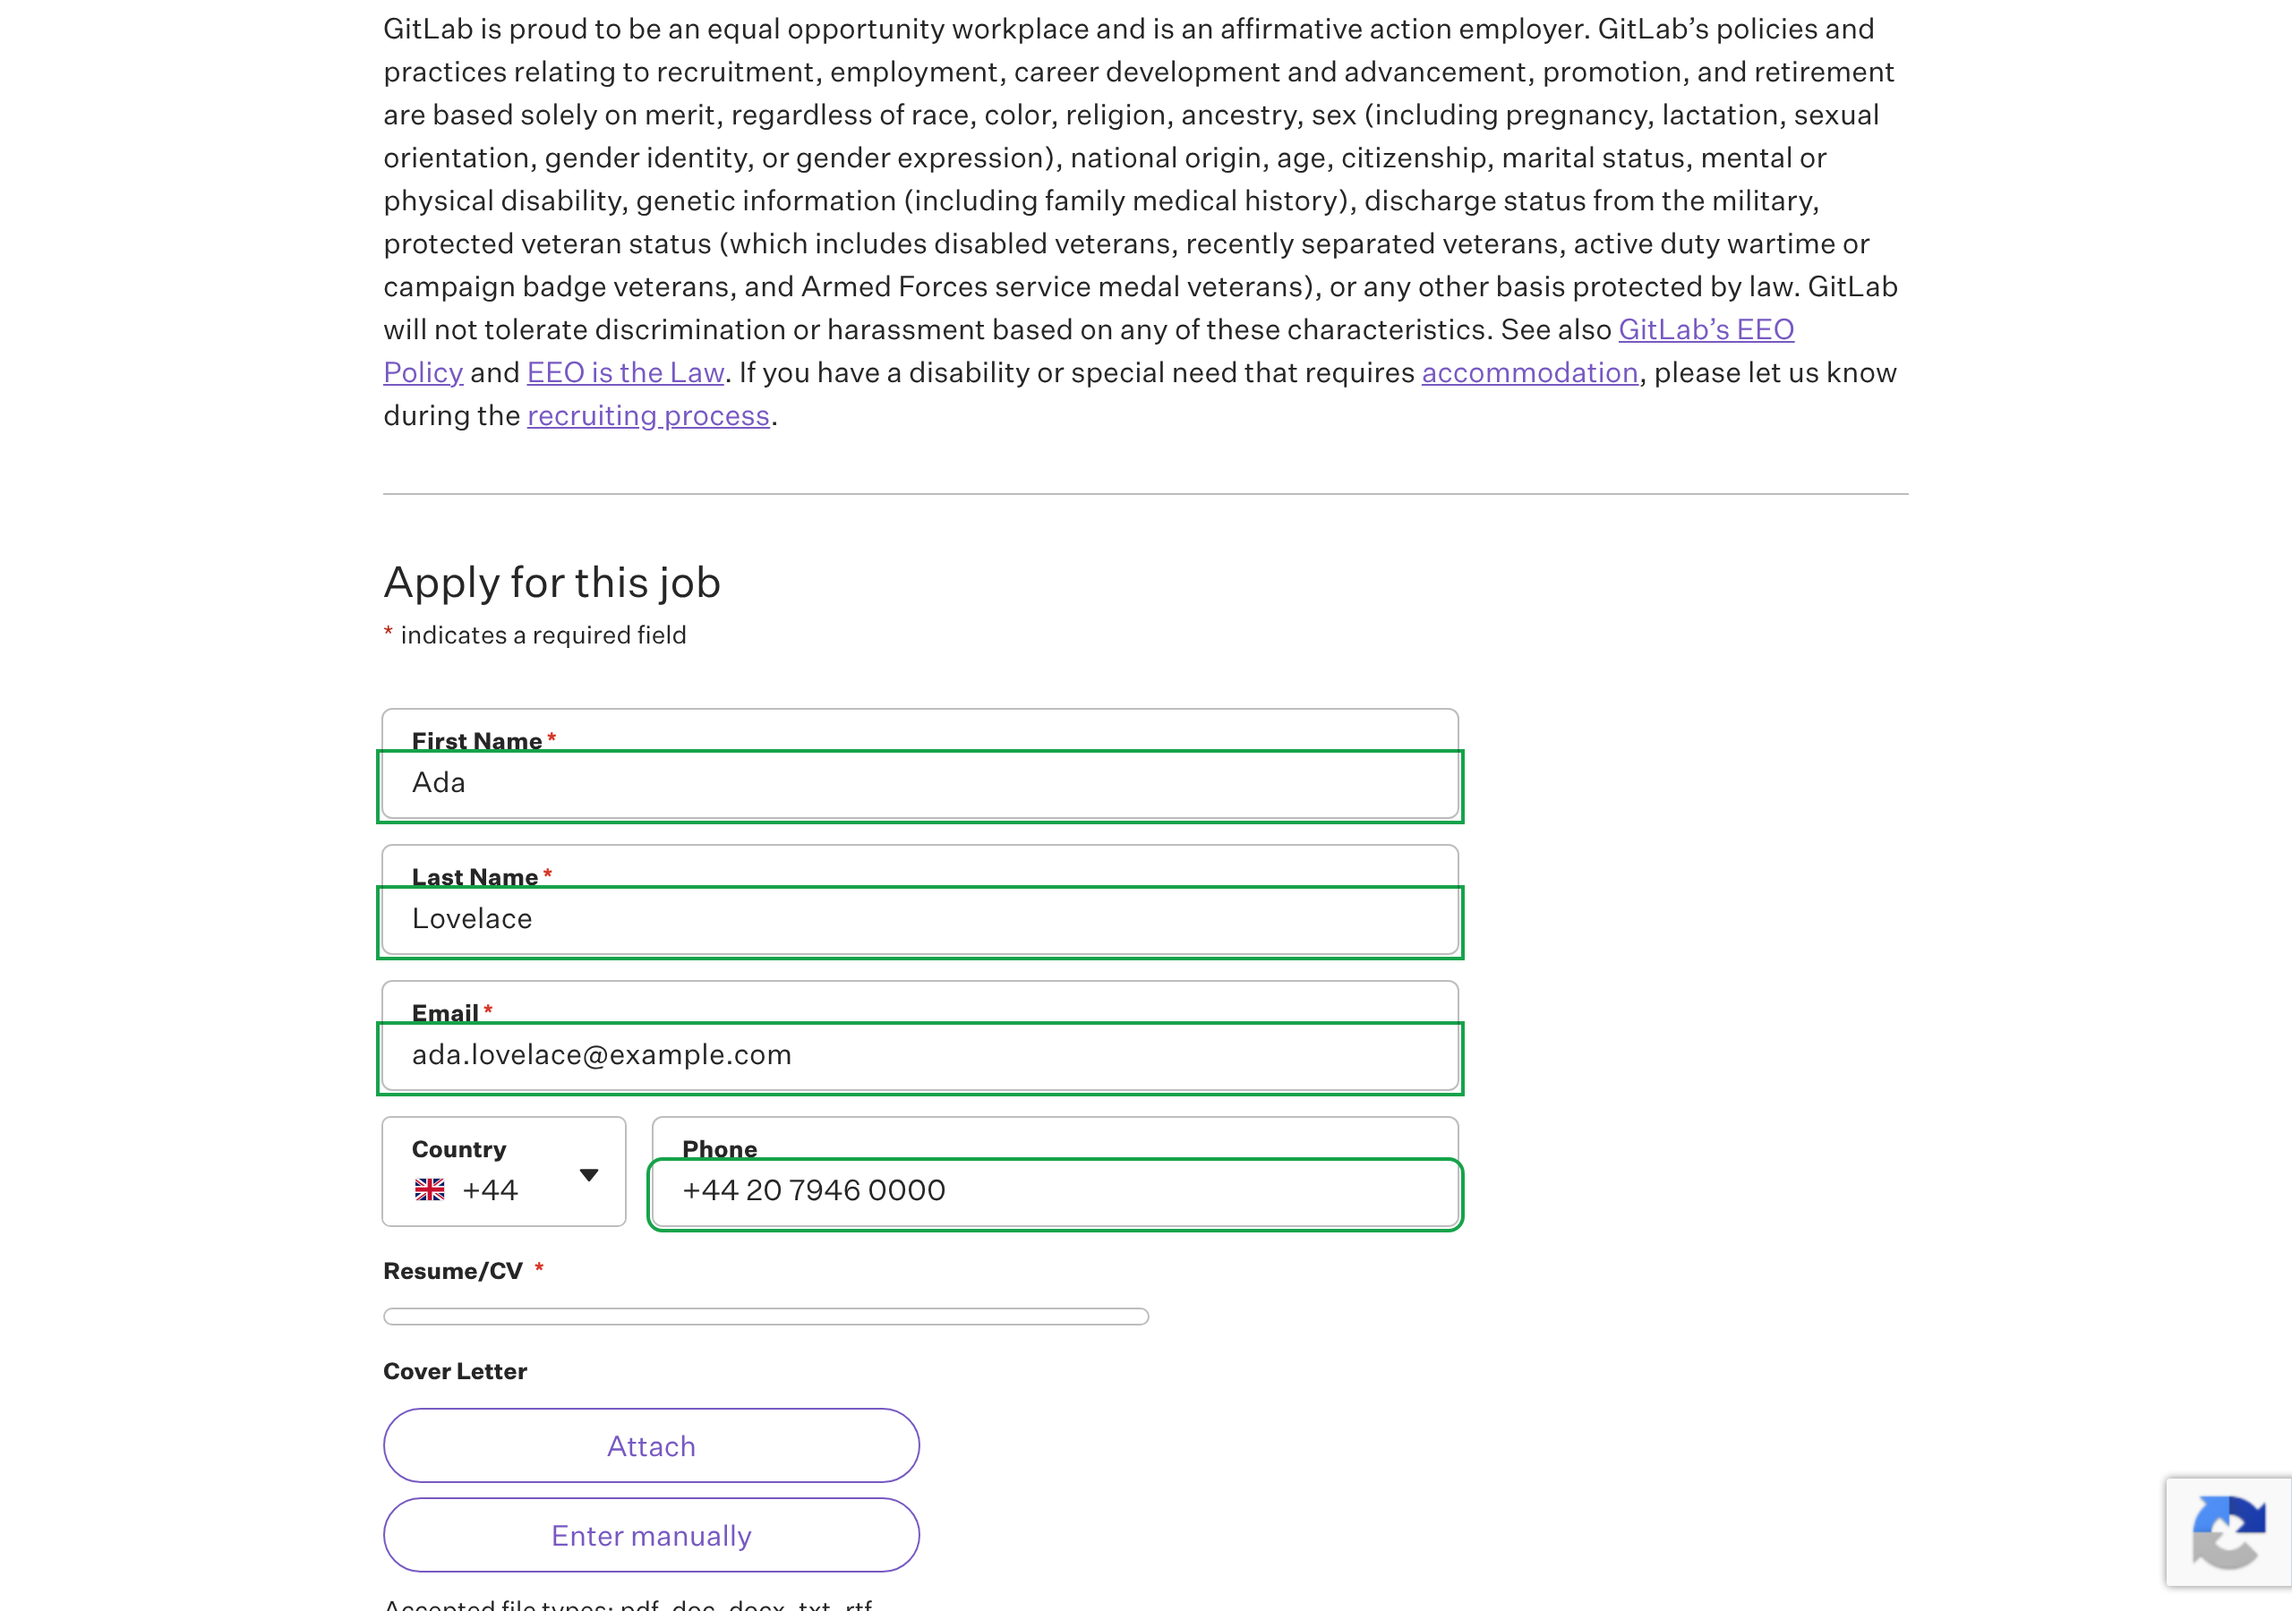
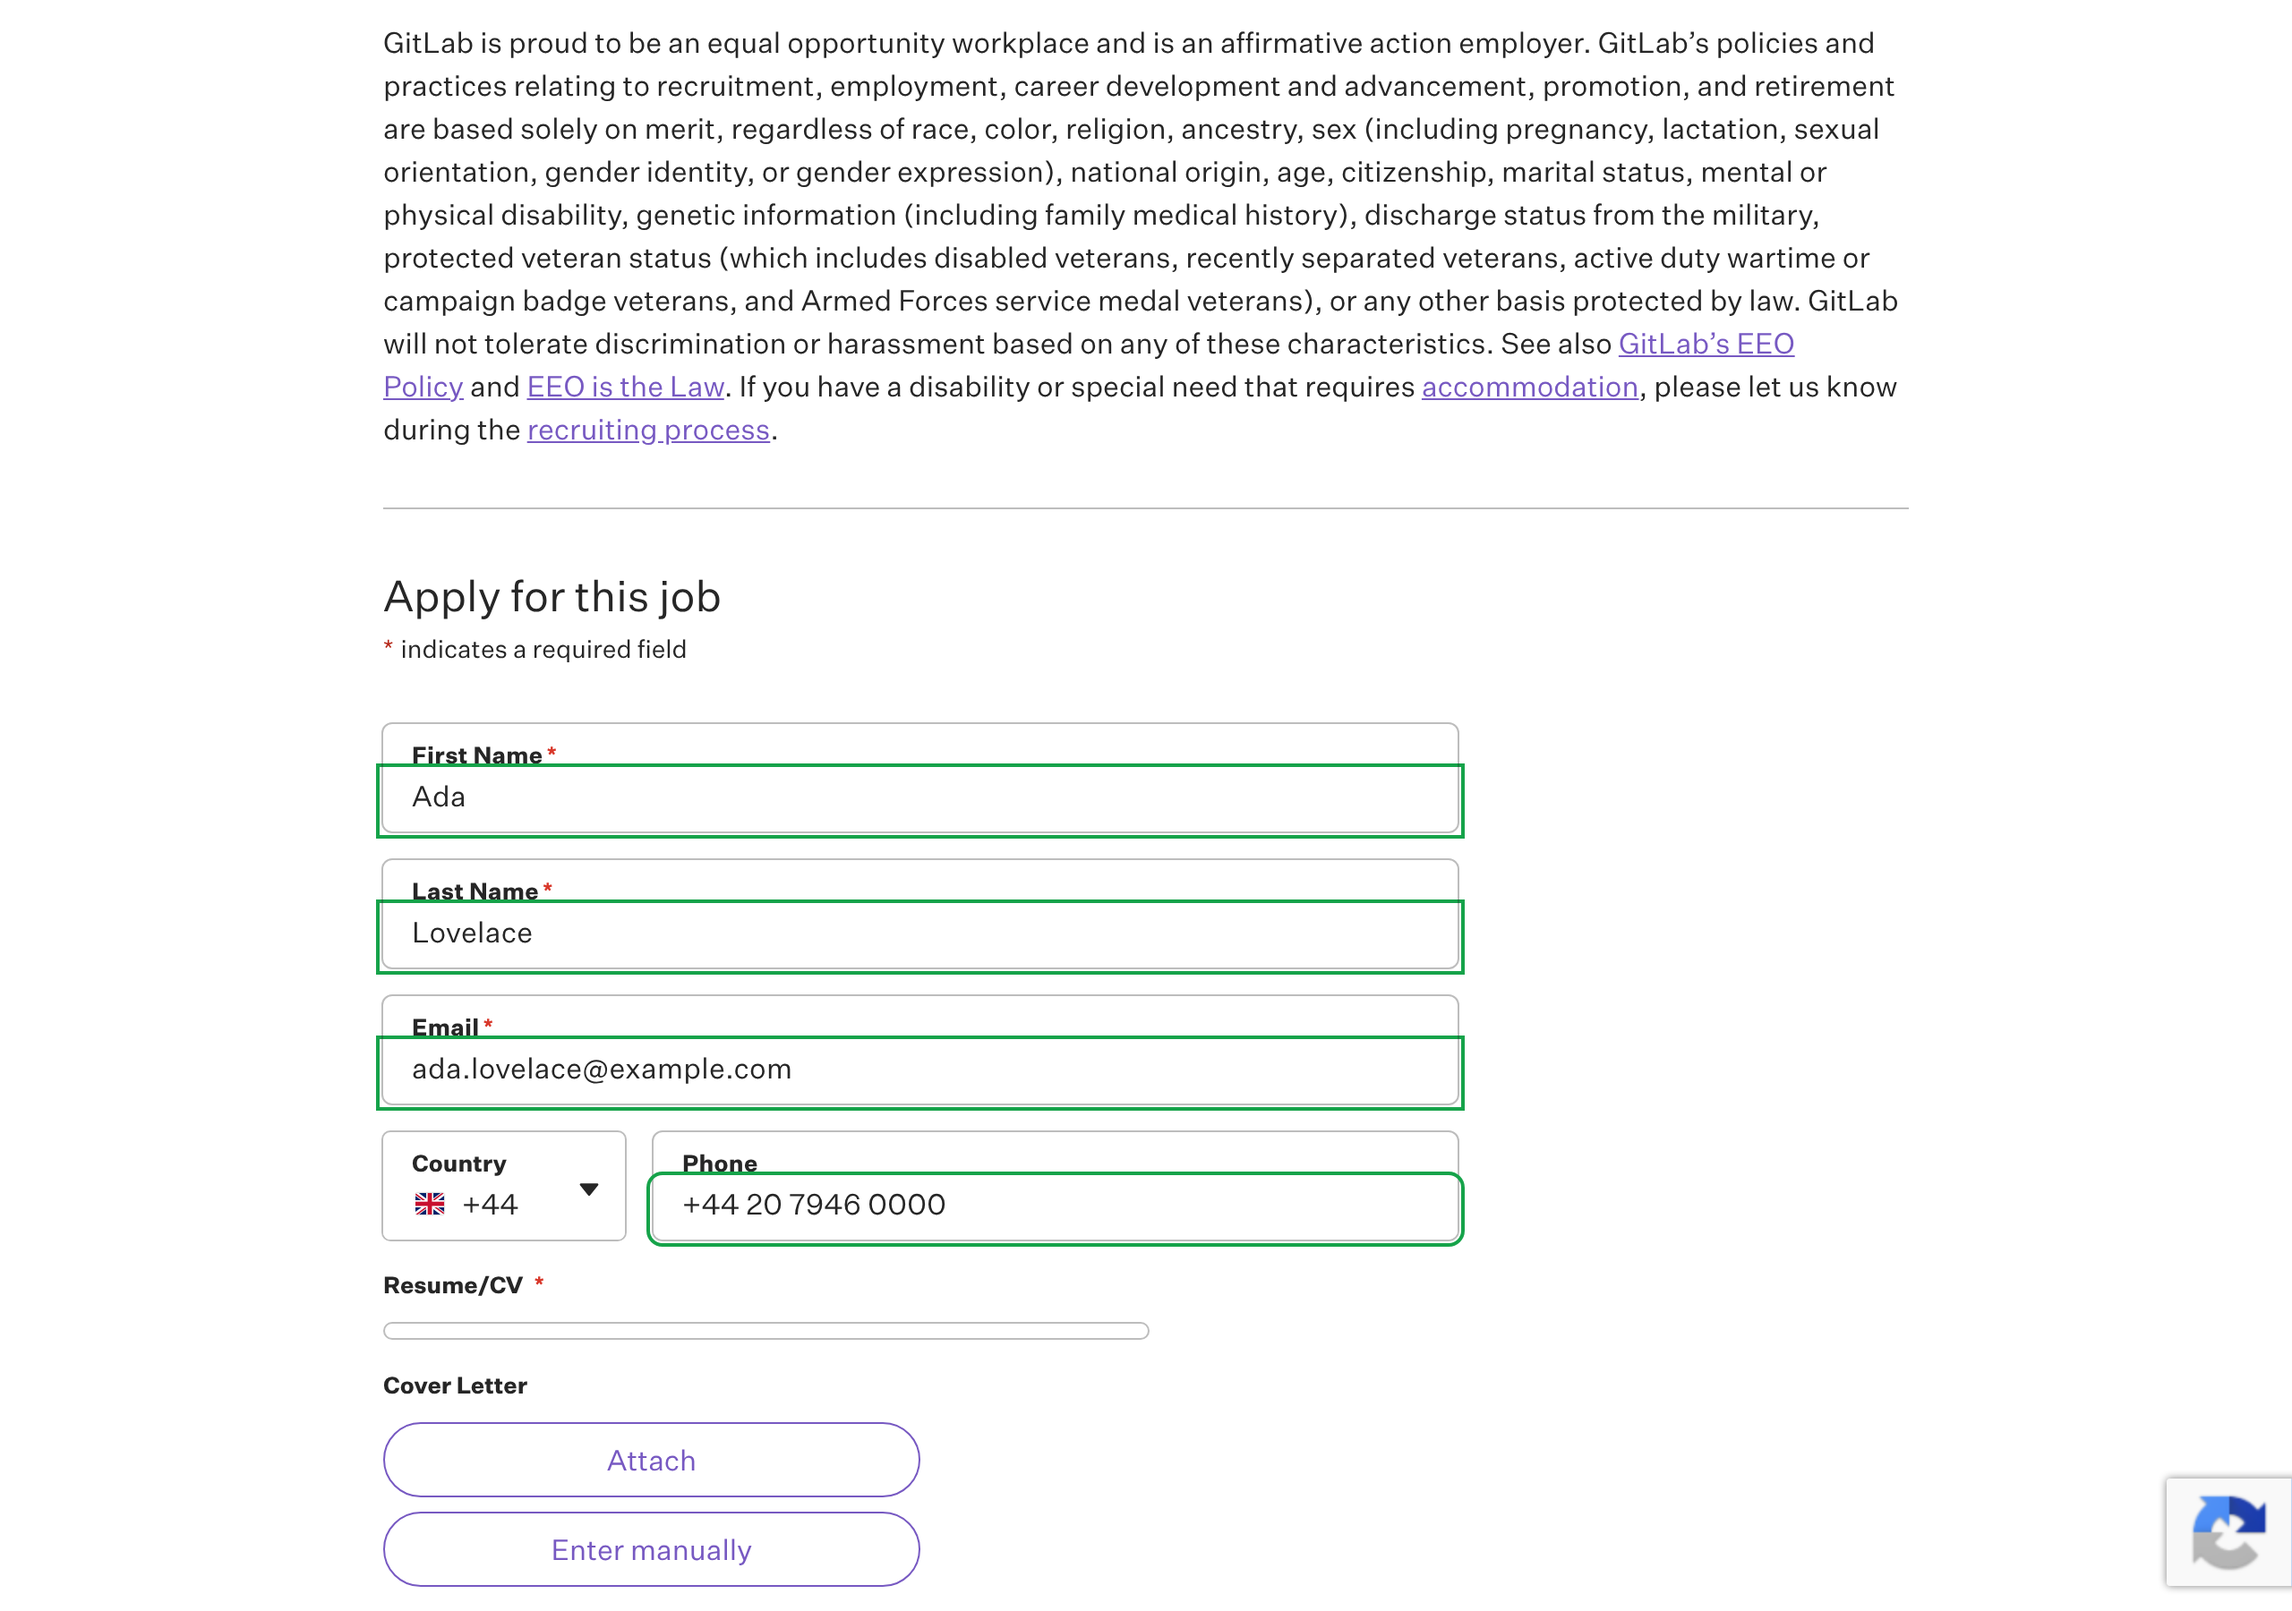
Skip matching for pre-filled fields and send the resume to the page only when a resume field is filled; version 0.1.2

diff --git a/src/background/fill.ts b/src/background/fill.ts
@@ -29,10 +29,13 @@ export async function fillTab(store: Store, tabId: number): Promise<FillReport> 
 
   const decisions: FieldDecision[] = [];
   for (const field of scan.fields) {
-    const match = await matchField(field, { answers, threshold: settings.threshold, llm });
+    // Pre-filled fields are never changed, so do not spend matching (or an LLM call) on them.
+    const match = field.hasValue ? { questionId: null, confidence: 0, method: 'none' as const } : await matchField(field, { answers, threshold: settings.threshold, llm });
     decisions.push(decide(field, match, data));
   }
-  const applied = await tabSend<ApplyResult>(tabId, { type: 'apply', decisions, resume });
+  // The resume file goes to the page only when a resume field is actually being filled.
+  const needsResume = decisions.some((d) => d.action === 'fill' && d.value === 'resume');
+  const applied = await tabSend<ApplyResult>(tabId, { type: 'apply', decisions, resume: needsResume ? resume : null });
 
   // Log the application with the answers actually written to the page.
   const labels = new Map(scan.fields.map((f) => [f.id, f.label]));
